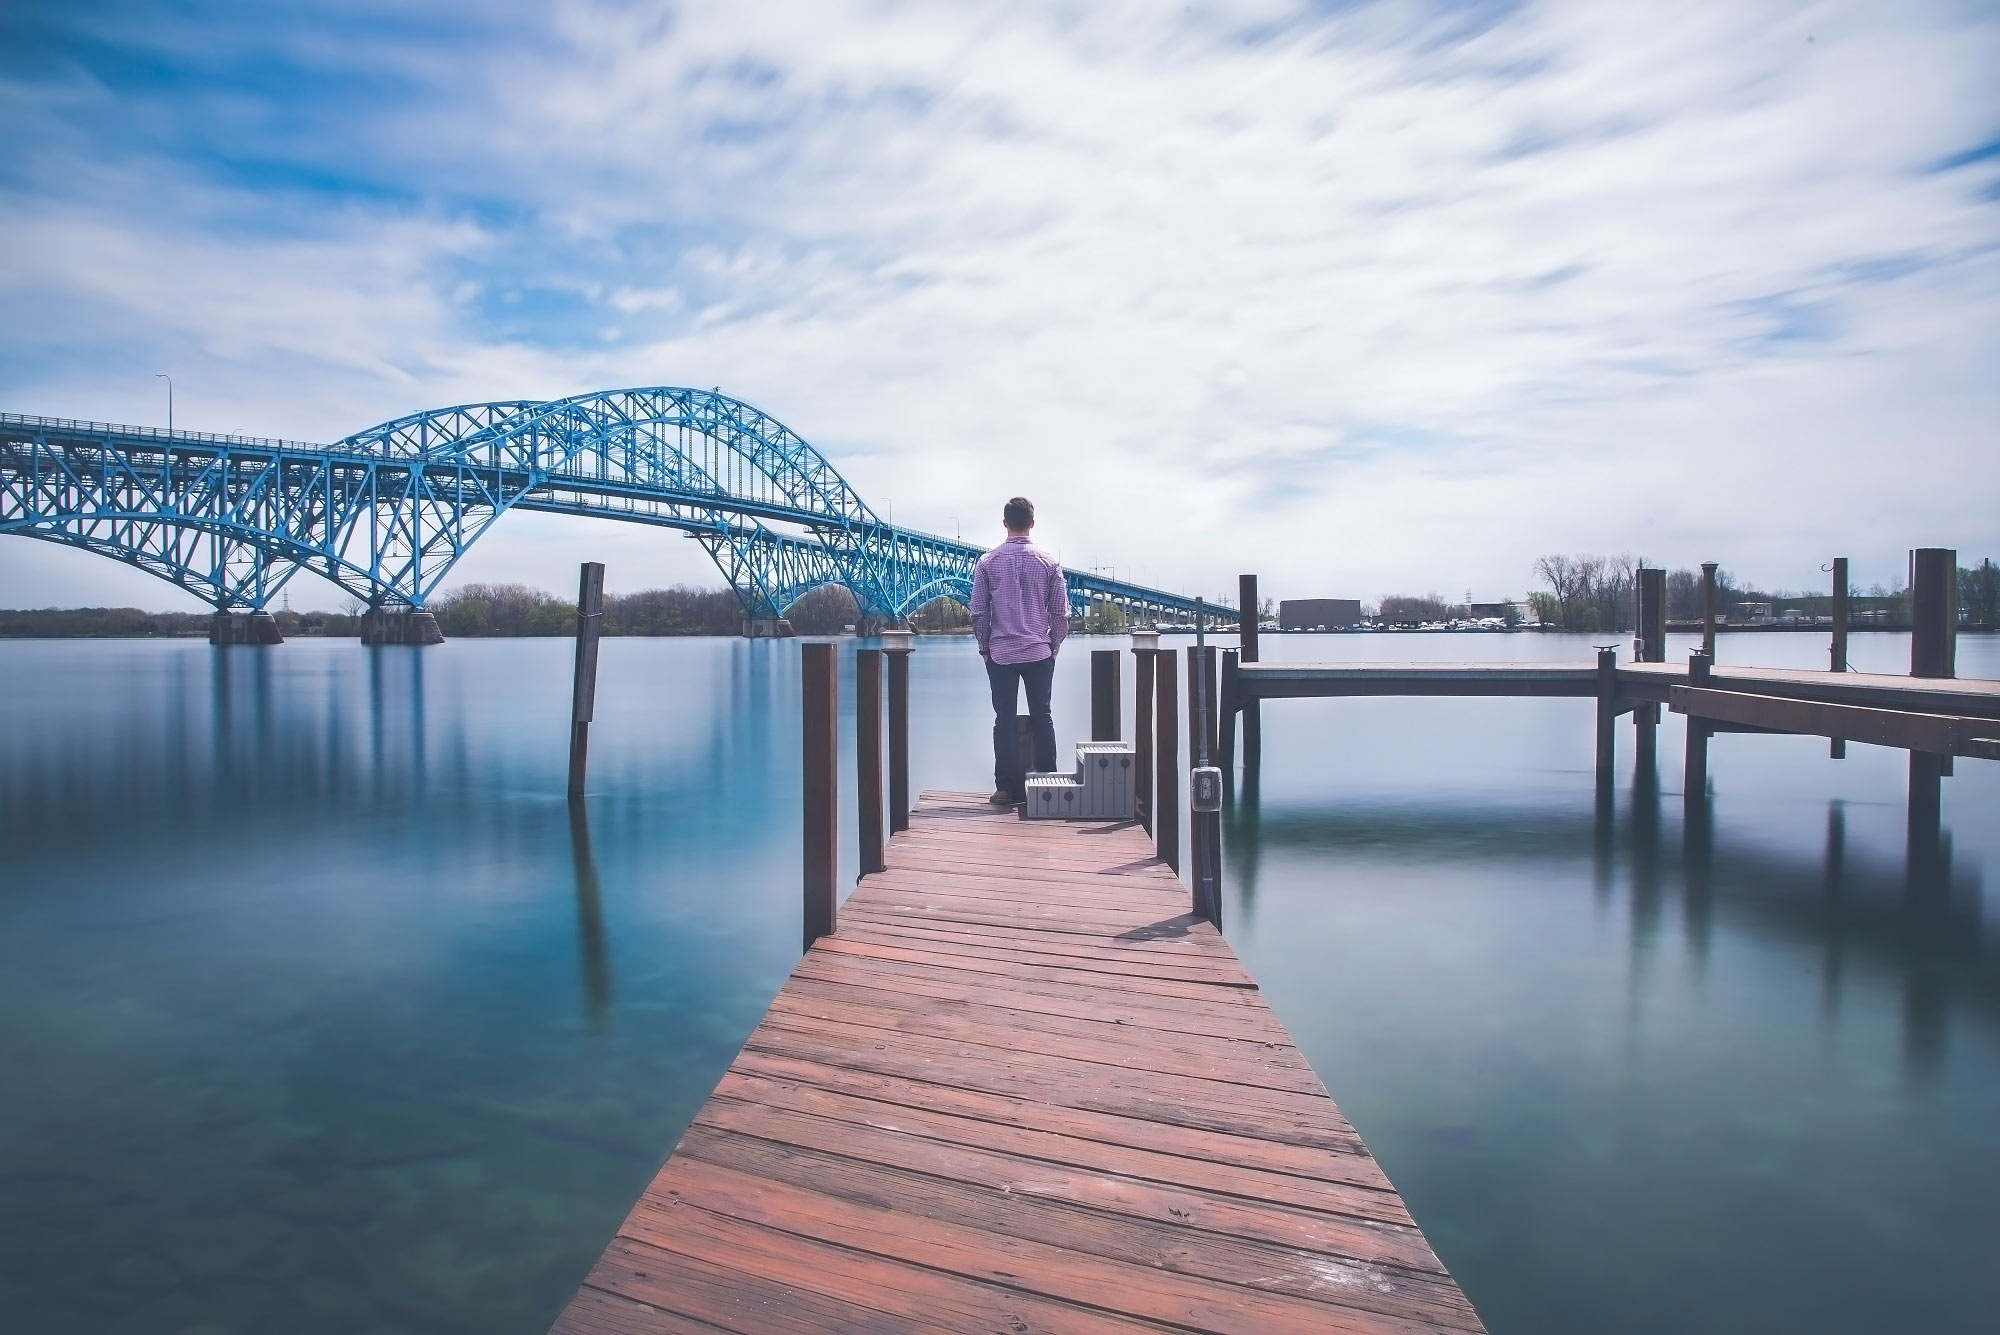
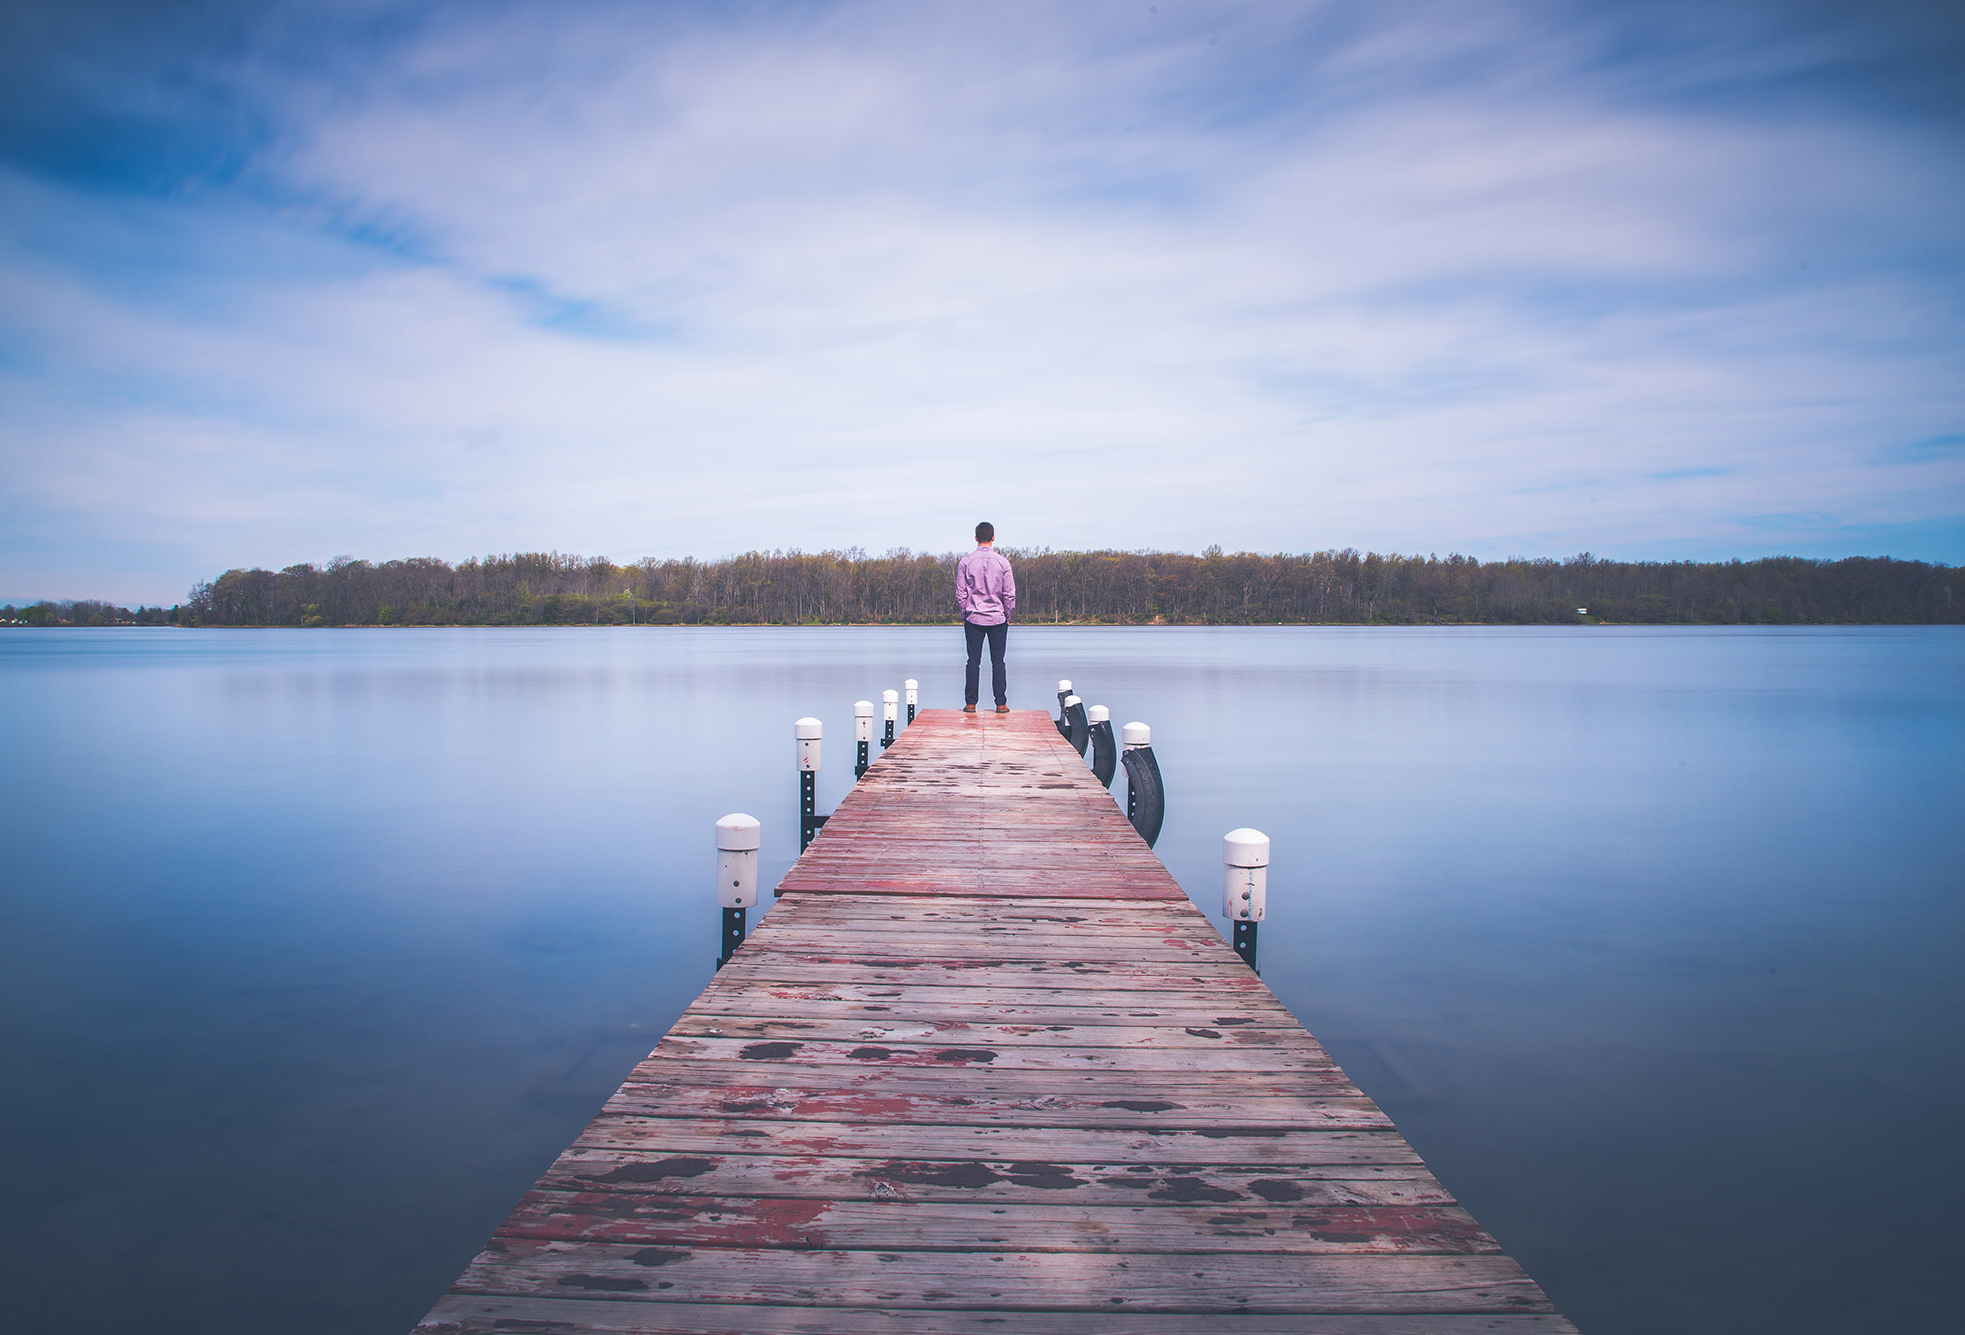
new home image

diff --git a/contact.html b/contact.html
@@ -158,7 +158,7 @@
     <footer id="footer" class="container-fluid">
         <div class="row">
             <div class="col-md-offset-2">
-                <div class="col-xs-12 col-md-4 column text-center contentBR" style="color: white">
+                <div class="col-xs-12 col-md-4 column text-center contentBR" style="color: white;width-max-100px;">
                     <img src="img/footMK.png" style=" max-width:100px;" />
                     <h4><strong>Michael Kulbacki</strong></h4>
                     <h5>Conatct me at:</h5>
